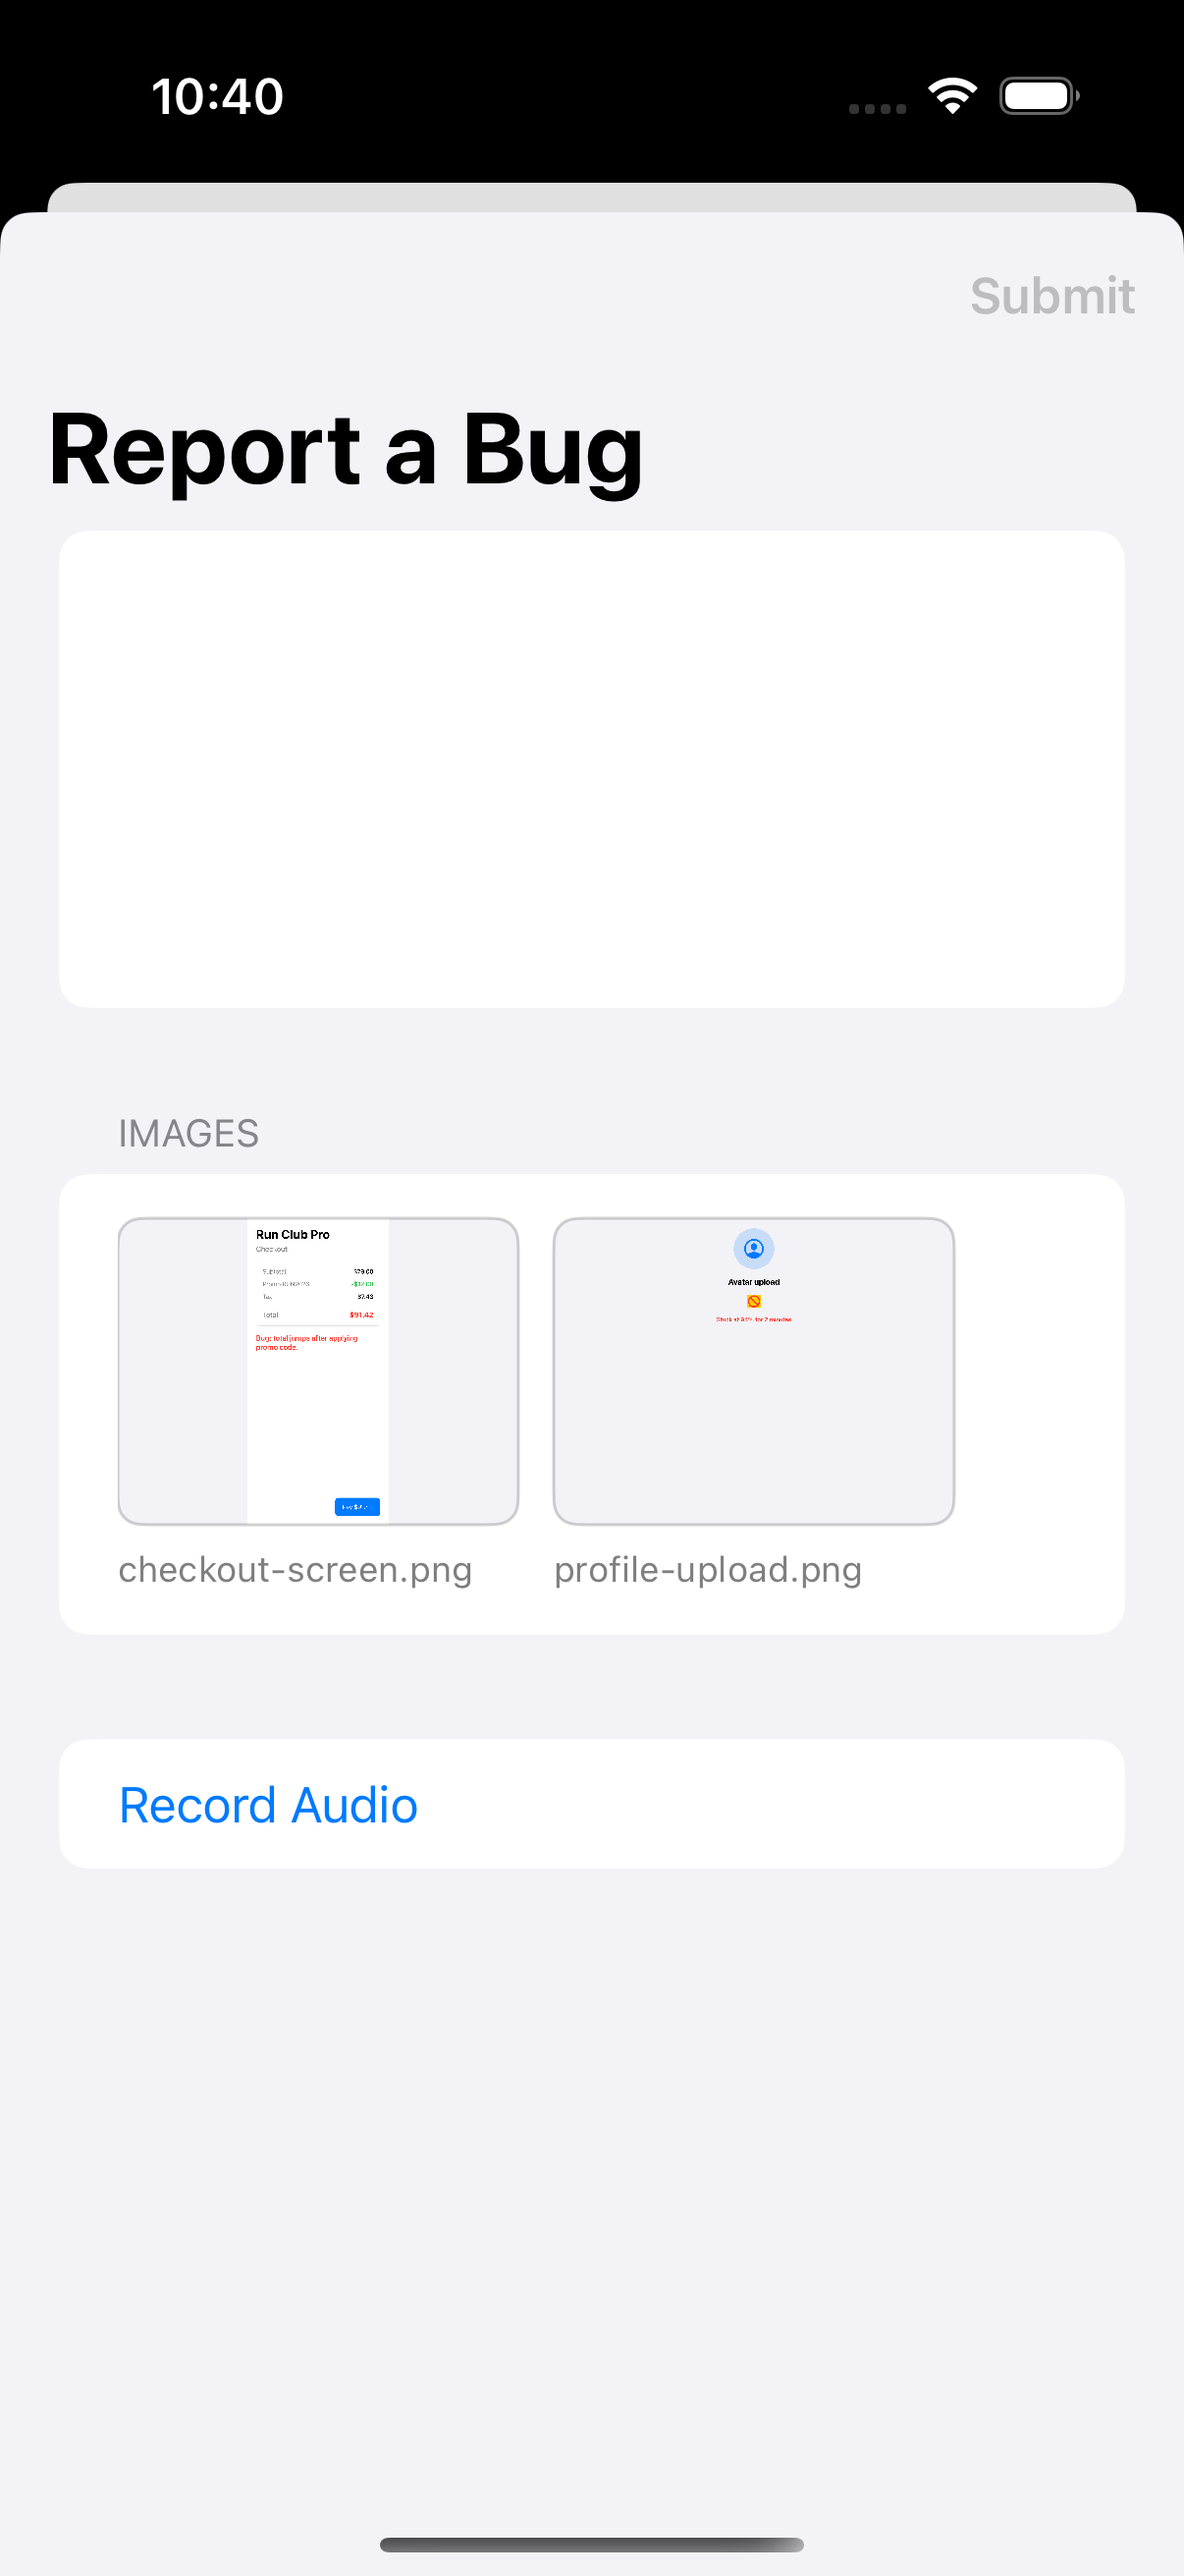
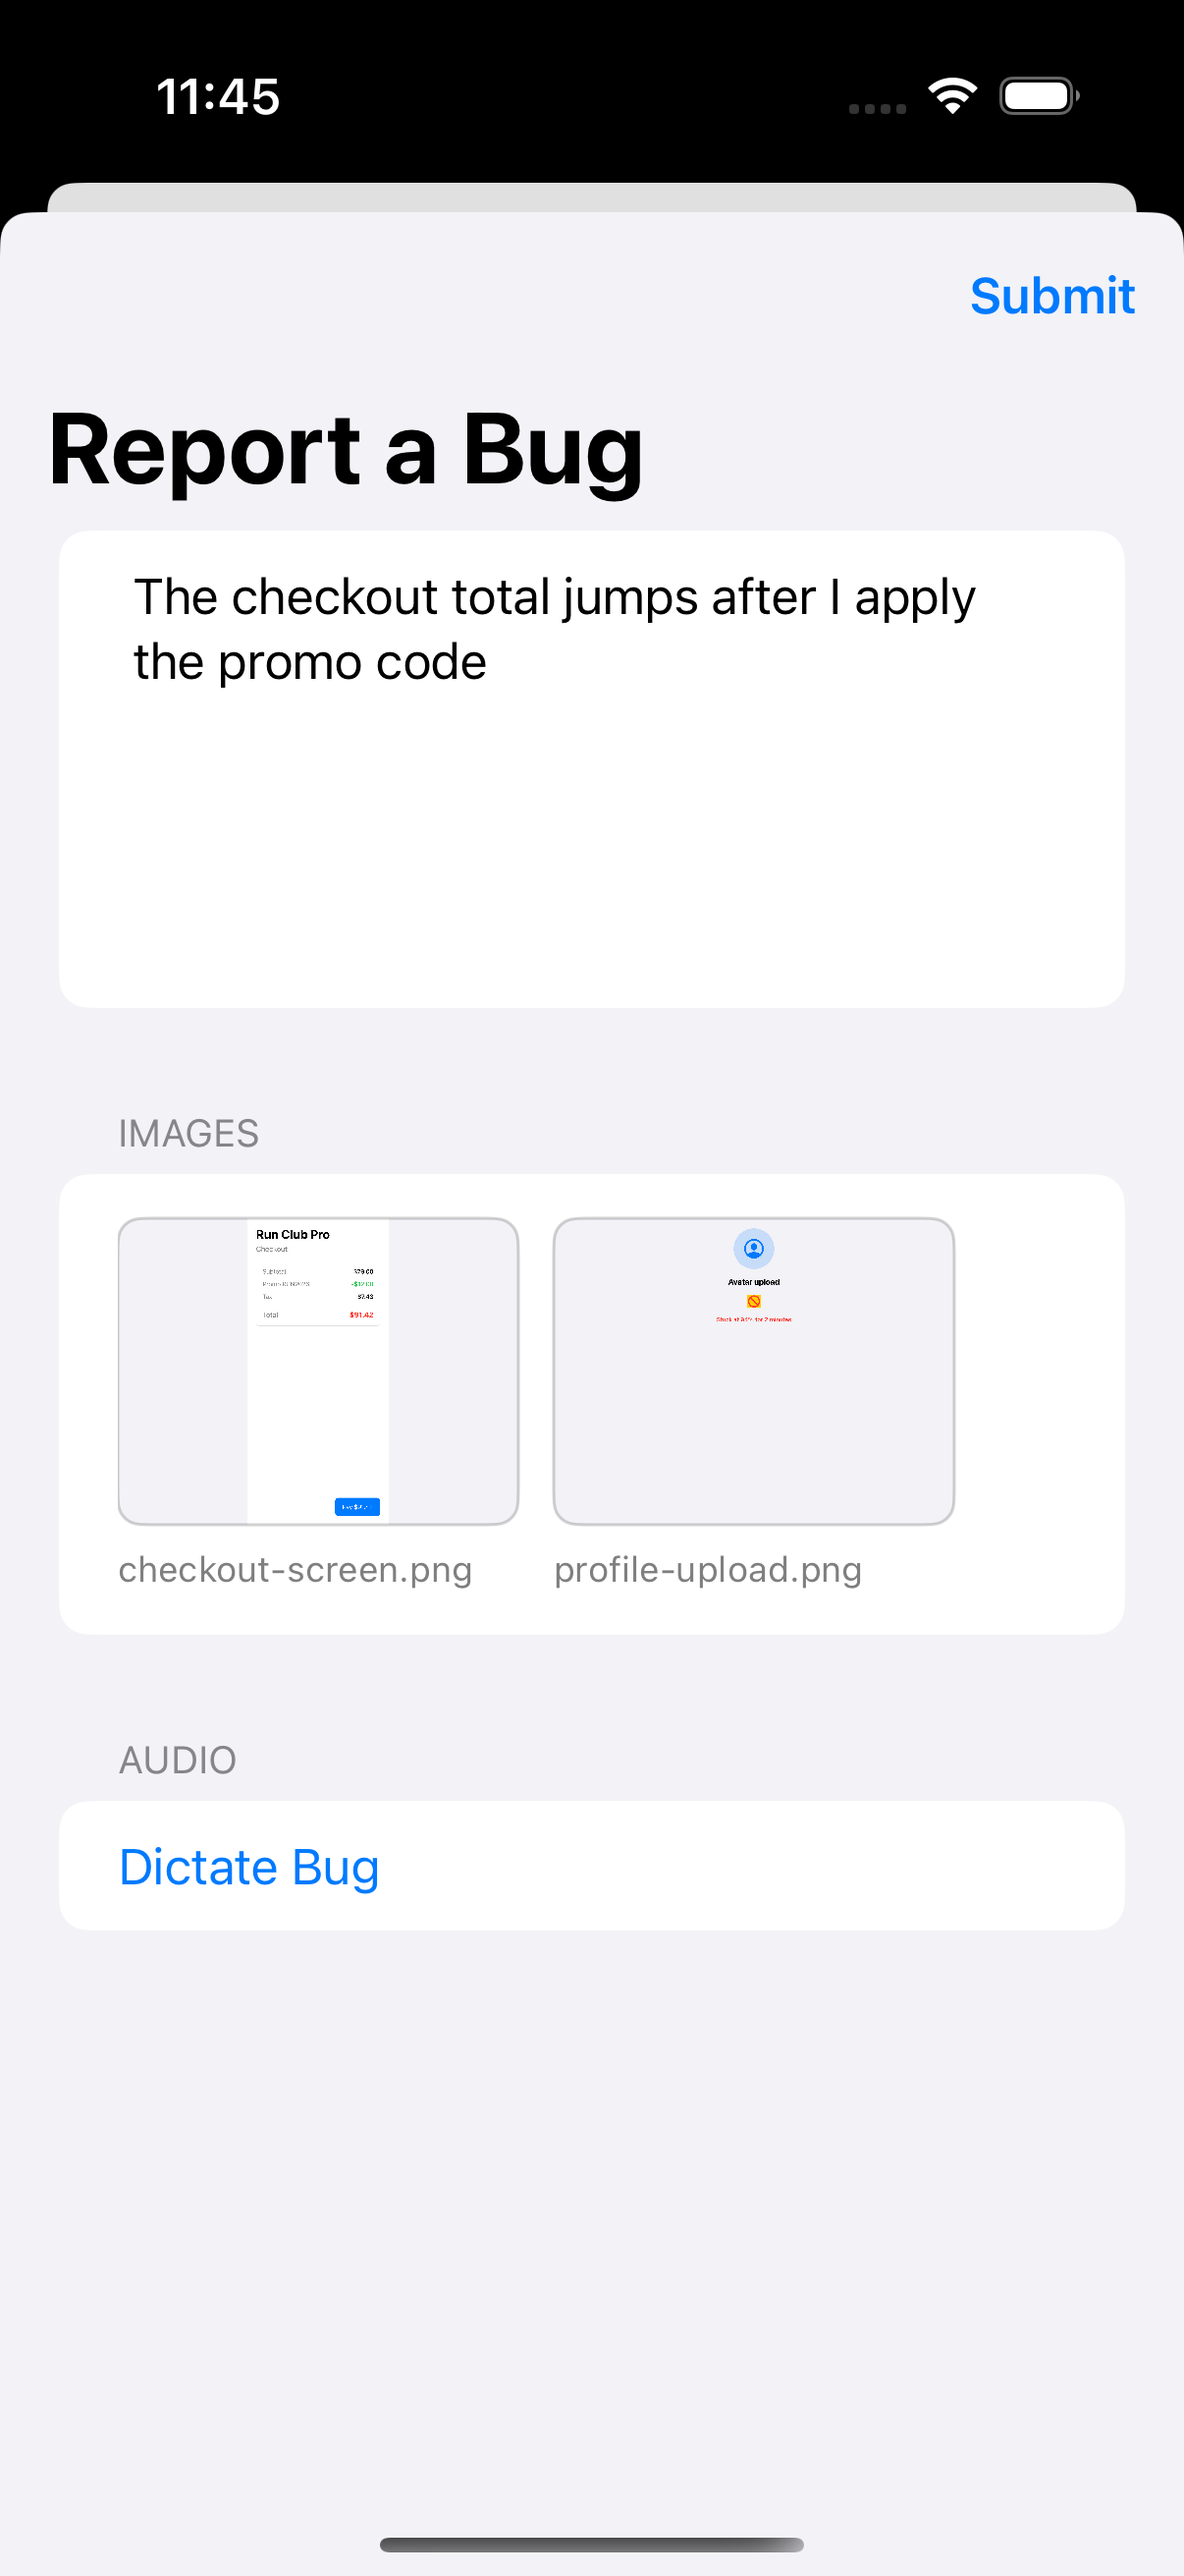
cleanup demo

diff --git a/ios/Sources/HollerKit/AnnotationView.swift b/ios/Sources/HollerKit/AnnotationView.swift
@@ -18,7 +18,6 @@ struct AnnotationEditorScreen: View {
     @State private var activeRedactionRect: CGRect?
     @State private var history: [AnnotationHistoryItem] = []
     @State private var canvasSize: CGSize = .zero
-    @State private var didSeedDemoAnnotation = false
 
     var body: some View {
         VStack(spacing: 0) {
@@ -42,11 +41,9 @@ struct AnnotationEditorScreen: View {
                         .frame(width: imageFrame.width, height: imageFrame.height)
                         .onAppear {
                             canvasSize = imageFrame.size
-                            seedDemoAnnotationIfRequested(canvasSize: imageFrame.size)
                         }
                         .onChange(of: imageFrame.size) { newSize in
                             canvasSize = newSize
-                            seedDemoAnnotationIfRequested(canvasSize: newSize)
                         }
 
                         if selectedTool == .redact {
@@ -114,18 +111,6 @@ struct AnnotationEditorScreen: View {
             redactionRects = previousRects
             selectedRedactionIndex = previousRects.indices.last
         }
-    }
-
-    private func seedDemoAnnotationIfRequested(canvasSize: CGSize) {
-        guard ProcessInfo.processInfo.environment["HOLLERKIT_DEMO_OPEN_ANNOTATION"] == "1",
-              !didSeedDemoAnnotation,
-              canvasSize.width > 240,
-              canvasSize.height > 500 else {
-            return
-        }
-
-        didSeedDemoAnnotation = true
-        drawing = DemoAnnotationDrawing.circleAroundTotal(canvasSize: canvasSize, color: penColor.uiColor)
     }
 
     private var selectedToolColor: Binding<AnnotationColor> {
@@ -559,31 +544,6 @@ private enum AnnotationRenderer {
                 ))
             }
         }
-    }
-}
-
-private enum DemoAnnotationDrawing {
-    static func circleAroundTotal(canvasSize: CGSize, color: UIColor) -> PKDrawing {
-        let center = CGPoint(x: canvasSize.width * 0.78, y: canvasSize.height * 0.335)
-        let radius = CGSize(width: canvasSize.width * 0.18, height: canvasSize.height * 0.043)
-        let points = stride(from: 0.0, through: .pi * 2, by: .pi / 22).enumerated().map { index, angle in
-            PKStrokePoint(
-                location: CGPoint(
-                    x: center.x + cos(angle) * radius.width,
-                    y: center.y + sin(angle) * radius.height
-                ),
-                timeOffset: TimeInterval(index) * 0.01,
-                size: CGSize(width: 9, height: 9),
-                opacity: 1,
-                force: 1,
-                azimuth: 0,
-                altitude: .pi / 2
-            )
-        }
-
-        let path = PKStrokePath(controlPoints: points, creationDate: Date())
-        let stroke = PKStroke(ink: PKInk(.pen, color: color), path: path)
-        return PKDrawing(strokes: [stroke])
     }
 }
 

diff --git a/ios/Sources/HollerKit/BugReportSheet.swift b/ios/Sources/HollerKit/BugReportSheet.swift
@@ -12,7 +12,6 @@ public struct BugReportSheet: View {
     @State private var comment = ""
     @State private var images: [BugReportImage] = []
     @State private var selectedImage: BugReportImage?
-    @State private var didAutoOpenDemoAnnotation = false
     @StateObject private var speechCapture = SpeechCaptureController()
     @State private var isSubmitting = false
     @State private var submissionError: String?
@@ -56,7 +55,7 @@ public struct BugReportSheet: View {
 
                 if configuration?.audio.isEnabled == true {
                     Section("Audio") {
-                        Button(speechCapture.isCapturing ? "Stop Transcribing" : "Transcribe Voice Note") {
+                        Button(speechCapture.isCapturing ? "Stop Dictation" : "Dictate Bug") {
                             Task {
                                 await toggleSpeechCapture()
                             }
@@ -124,7 +123,6 @@ public struct BugReportSheet: View {
             let configuredImages = configuration?.initialImages() ?? []
             images = (invocationAttachments + configuredImages).compactMap(BugReportImage.init(attachment:))
             #endif
-            openDemoAnnotationIfRequested()
         }
         .accessibilityIdentifier("HollerKitBugReportSheet")
     }
@@ -203,19 +201,6 @@ public struct BugReportSheet: View {
         await speechCapture.toggle(configuration: configuration.audio)
     }
 
-    private func openDemoAnnotationIfRequested() {
-        guard ProcessInfo.processInfo.environment["HOLLERKIT_DEMO_OPEN_ANNOTATION"] == "1",
-              !didAutoOpenDemoAnnotation,
-              let image = images.first else {
-            return
-        }
-
-        didAutoOpenDemoAnnotation = true
-        Task { @MainActor in
-            try? await Task.sleep(for: .milliseconds(700))
-            selectedImage = image
-        }
-    }
 }
 
 struct BugReportImage: Identifiable, Hashable {
